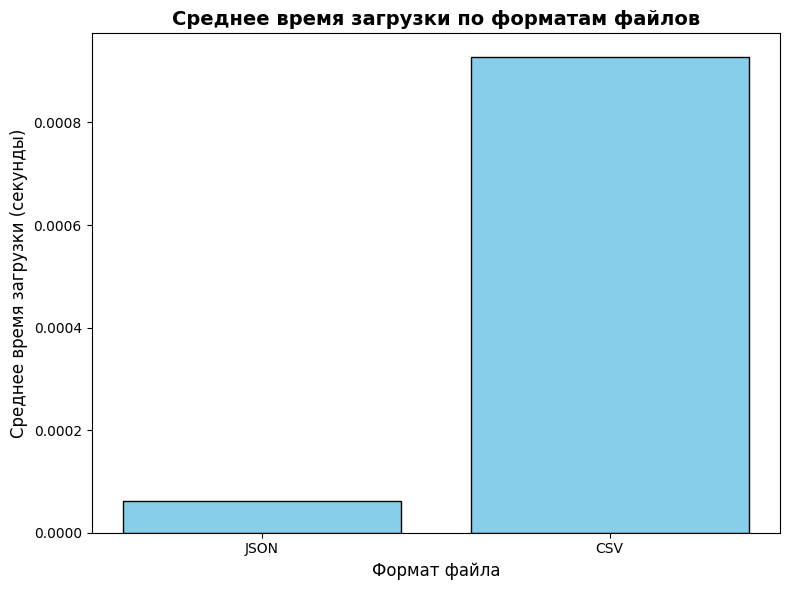
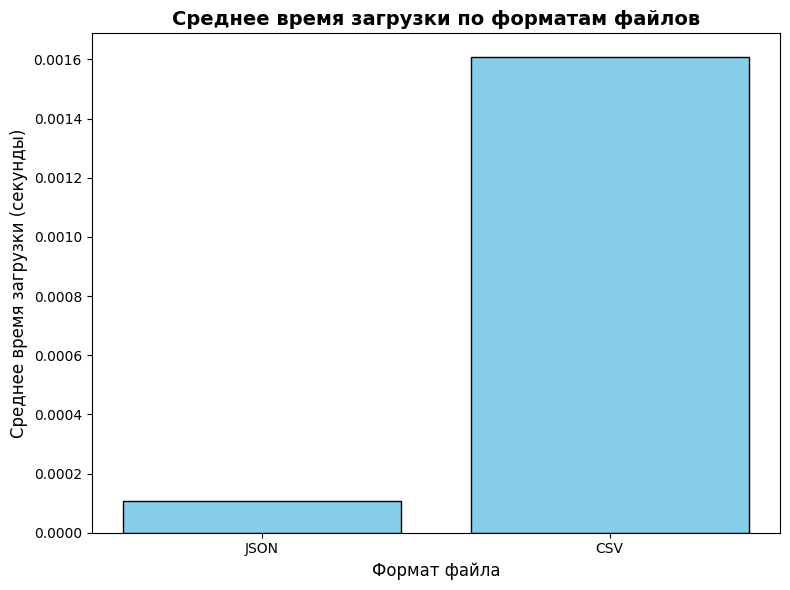
Update login process to directly display main page after authentication
Adjust the login form action to POST to the index view and modify the views.py to handle authentication without redirects, ensuring immediate display of the main page.

Replit-Commit-Author: Agent
Replit-Commit-Session-Id: 50b1236a-d4db-40f5-b2bd-c4c08b8b2a47
Replit-Commit-Checkpoint-Type: full_checkpoint
Replit-Commit-Event-Id: d342d725-f47e-4784-8191-ab8997c10d4c
Replit-Commit-Screenshot-Url: https://storage.googleapis.com/screenshot-production-us-central1/6e0ba943-8459-45e6-be87-6fe7970089bd/50b1236a-d4db-40f5-b2bd-c4c08b8b2a47/dINQTiE
Replit-Helium-Checkpoint-Created: true

diff --git a/tasks/templates/registration/login.html b/tasks/templates/registration/login.html
@@ -140,7 +140,7 @@
             {% endif %}
 
             <!-- Форма ввода учётных данных -->
-            <form method="post" action="/login/">
+            <form method="post" action="/">
                 {% csrf_token %}
                 <!-- ^ CSRF-токен: скрытое поле защиты от межсайтовых атак -->
 

diff --git a/tasks/views.py b/tasks/views.py
@@ -1,8 +1,7 @@
 from django.shortcuts import render
 from django.contrib.auth import authenticate, login as auth_login, logout as auth_logout
-from django.core.files.storage import default_storage
-from django.conf import settings
 from django.views.decorators.csrf import csrf_exempt
+from django.conf import settings
 from .utils.processor import process_files, create_test_files, generate_charts
 import base64
 import os
@@ -11,38 +10,37 @@ import shutil
 
 @csrf_exempt
 def index(request):
-    # If user not authenticated, handle login form
+    # --- Login handling (no redirect, no cookies needed) ---
     if not request.user.is_authenticated:
-        error = False
         if request.method == 'POST' and 'username' in request.POST:
-            username = request.POST.get('username', '')
-            password = request.POST.get('password', '')
-            user = authenticate(request, username=username, password=password)
+            user = authenticate(
+                request,
+                username=request.POST.get('username', ''),
+                password=request.POST.get('password', ''),
+            )
             if user is not None:
                 auth_login(request, user)
-                # Fall through to show main page below
+                # fall through to render the main page immediately
             else:
-                error = True
-                return render(request, 'registration/login.html', {'error': error})
+                return render(request, 'registration/login.html', {'error': True})
         else:
             return render(request, 'registration/login.html', {'error': False})
 
-    # ---- User is authenticated: show main microservice page ----
+    # --- Main microservice page (user is authenticated) ---
     results = None
     charts = {}
 
     test_files = ['data.json', 'report.json', 'config.json', 'data.csv', 'backup.csv']
-    test_files_exist = all(os.path.exists(f) for f in test_files)
-    if not test_files_exist:
+    if not all(os.path.exists(f) for f in test_files):
         create_test_files()
 
+    chart_files = ['char7.png', 'char8.png', 'char9.png', 'char10.png']
+
     if request.method == 'POST' and request.FILES.getlist('files'):
-        uploaded_files = request.FILES.getlist('files')
-        file_paths = []
         upload_dir = os.path.join(settings.BASE_DIR, 'uploads')
         os.makedirs(upload_dir, exist_ok=True)
-
-        for uploaded_file in uploaded_files:
+        file_paths = []
+        for uploaded_file in request.FILES.getlist('files'):
             file_path = os.path.join(upload_dir, uploaded_file.name)
             if os.path.exists(file_path):
                 name, ext = os.path.splitext(uploaded_file.name)
@@ -54,23 +52,18 @@ def index(request):
                 for chunk in uploaded_file.chunks():
                     dest.write(chunk)
             file_paths.append(file_path)
-
-        if file_paths:
-            results = process_files(file_paths)
-            generate_charts(results)
-            for chart_file in ['char7.png', 'char8.png', 'char9.png', 'char10.png']:
-                if os.path.exists(chart_file):
-                    with open(chart_file, 'rb') as img:
-                        charts[chart_file.replace('.png', '')] = base64.b64encode(img.read()).decode()
+        results = process_files(file_paths)
+        generate_charts(results)
     else:
-        test_file_paths = [os.path.abspath(f) for f in test_files if os.path.exists(f)]
-        if test_file_paths:
-            results = process_files(test_file_paths)
+        test_paths = [os.path.abspath(f) for f in test_files if os.path.exists(f)]
+        if test_paths:
+            results = process_files(test_paths)
             generate_charts(results)
-            for chart_file in ['char7.png', 'char8.png', 'char9.png', 'char10.png']:
-                if os.path.exists(chart_file):
-                    with open(chart_file, 'rb') as img:
-                        charts[chart_file.replace('.png', '')] = base64.b64encode(img.read()).decode()
+
+    for cf in chart_files:
+        if os.path.exists(cf):
+            with open(cf, 'rb') as img:
+                charts[cf.replace('.png', '')] = base64.b64encode(img.read()).decode()
 
     return render(request, 'tasks/index.html', {
         'results': results,
@@ -86,7 +79,7 @@ def clean_uploads(request):
         if os.path.exists(upload_dir):
             shutil.rmtree(upload_dir)
             os.makedirs(upload_dir, exist_ok=True)
-        for chart_file in ['char7.png', 'char8.png', 'char9.png', 'char10.png']:
-            if os.path.exists(chart_file):
-                os.remove(chart_file)
+        for cf in ['char7.png', 'char8.png', 'char9.png', 'char10.png']:
+            if os.path.exists(cf):
+                os.remove(cf)
     return index(request)
